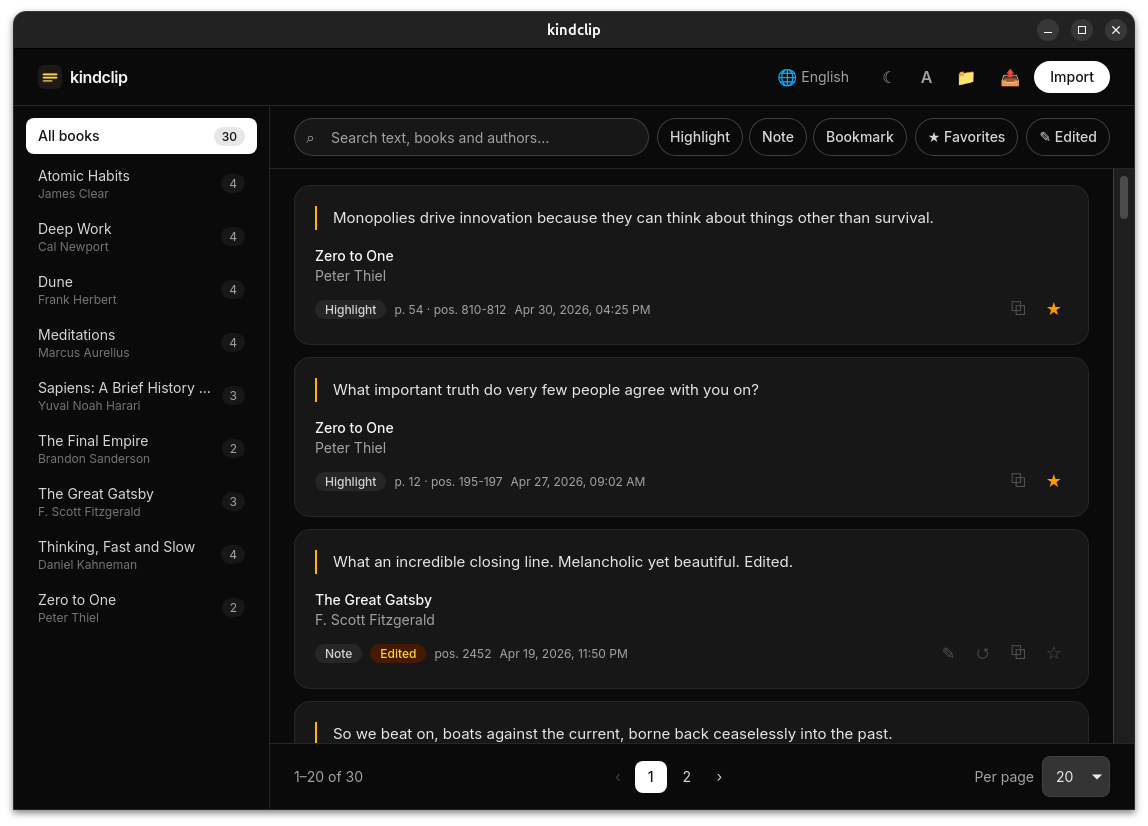
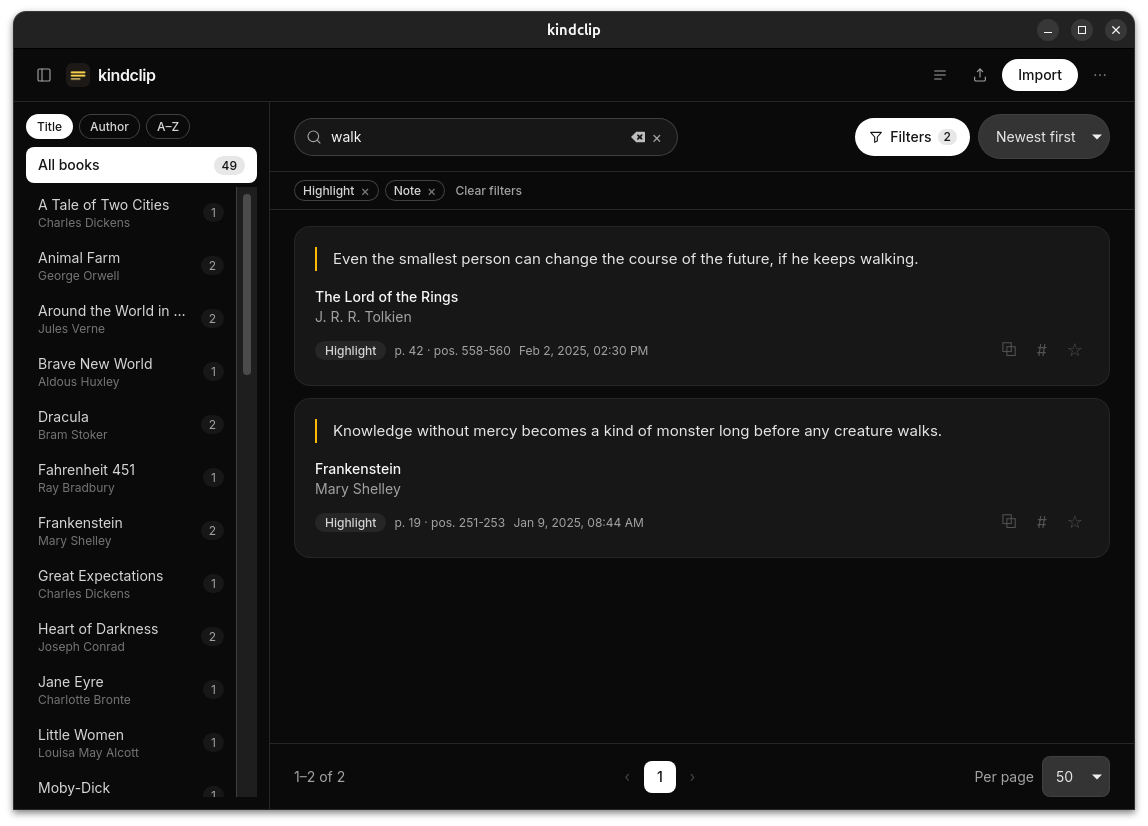
docs: refresh the screenshot and document the new app chrome

diff --git a/README.md b/README.md
@@ -16,7 +16,8 @@ on Windows, Linux and macOS.
 <p>
   <img src="docs/screenshot.png" width="80%" alt="kindclip — dark theme">
 </p>
-*Library view: book sidebar, live search, cards and pagination — in dark theme.*
+*Library view: collapsible book sidebar, collapsible search, one Filters menu
+with its active chips, and the ⋯ preferences menu — in dark theme.*
 
 ## Usage
 
@@ -27,13 +28,13 @@ on Windows, Linux and macOS.
 2. Plug in your Kindle over USB and grab `documents/My Clippings.txt`.
 3. Hit **Import**, pick the file, browse. Re-import any time: duplicates are
    detected by hash, and files that previously failed to parse get healed.
-   The 📁 button next to **Import** reveals the database file in your file
-   manager.
-4. Hit **Export** (📤) next to **Import** to save everything matching the
+   The **⋯** menu has **Open database location** to reveal the database file
+   in your file manager.
+4. Hit the **Export** icon in the header to save everything matching the
    current filters to **Markdown, JSON or CSV** — one file grouped by book.
-5. Hit **Manage library** (🗂) to rename or merge books, delete a book, or
-   remove an imported file — a bad import can be undone without wiping the
-   whole database.
+5. Hit the **Manage library** icon in the header to rename or merge books,
+   delete a book, or remove an imported file — a bad import can be undone
+   without wiping the whole database.
 
 ## Features
 
@@ -42,10 +43,18 @@ on Windows, Linux and macOS.
   kinds — including modern Spanish firmware wording («Tu resaltado»).
 - **Multi-file library** with content-hash dedupe across imports.
 - **Filters**: full-text search over content, title and author, plus book,
-  multi-select kind chips, favorites-only, edited-notes-only and multi-tag
-  filters. Tags combine with **AND** (a clipping must carry every selected
-  tag), and every filter can be mixed. Configurable **pagination**
-  (20/50/100) and a **font-size control** (S/M/L) for accessibility.
+  multi-select type, status and tag filters. Everything but the book lives in
+  a single **Filters** menu that badges the active count and shows a removable
+  chip per active filter; **Clear filters** resets them all. Tags combine with
+  **AND** (a clipping must carry every selected tag), and every filter can be
+  mixed. Configurable **pagination** (20/50/100).
+- **Grouped app chrome**: one header holds the sidebar toggle, the library and
+  export actions, **Import** and a **⋯** menu for **Preferences** — language,
+  system/light/dark theme, text size (S/M/L) for accessibility, and the
+  database location. All of it persists.
+- **Collapsible shell**: hide the book sidebar with the header toggle (the
+  choice is remembered), and the search field stays collapsed to an icon until
+  you click it or there is text in it.
 - **Book sorting**: sort the book sidebar by title or author, ascending or
   descending, with the choice persisted.
 - **Clipping order**: sort the list by newest/oldest, book title (A–Z/Z–A) or
@@ -70,10 +79,10 @@ on Windows, Linux and macOS.
   clippings, and list the imported files to undo a single import without
   wiping `kindclip.db`. Every destructive action asks for confirmation, and
   removed clippings come back if you re-import the file.
-- **UI in 5 languages** (es, en, fr, de, it — Spanish by default),
-  a **system/light/dark theme** and the font size above, all persisted.
-- A header button reveals **`kindclip.db` in the file manager**, and long
-  book titles in the sidebar show the full title on hover.
+- **UI in 5 languages** (es, en, fr, de, it — Spanish by default), with the
+  language switch in the **⋯** menu next to the theme and text size.
+- **⋯ → Open database location** reveals `kindclip.db` in the file manager, and
+  long book titles in the sidebar show the full title on hover.
 - Bundled **Inter** typeface, custom icons and a minimal macOS-style UI over
   the native window frame.
 
@@ -129,10 +138,12 @@ src/                        # Svelte 5 + Tailwind v4 frontend
     font.ts                 # S/M/L font-size scale with persistence (tested)
     importer.ts             # Import flow: pick → parse → persist
     library.ts              # Pagination, debounce, formatting (tested)
+    sidebar.ts              # Remembered sidebar open/closed state (tested)
     i18n.ts                 # es/en/fr/de/it dictionaries (parity tested)
     theme.ts                # system/light/dark theme
     types.ts                # Shared frontend/backend contracts
-  components/               # BookSidebar, ClippingCard, Pagination, FontScaleToggle, ...
+  components/               # BookSidebar, ClippingCard, Pagination, FilterMenu, ...
+                            # PreferencesMenu, ExportDialog, LibraryDialog, Icon
   assets/icon.png           # App icon, also shown in the header
 src-tauri/
   src/
@@ -157,8 +168,8 @@ The SQL plugin resolves `sqlite:kindclip.db` to the standard per-OS config dir
 To wipe the library and re-import from scratch, just delete that file.
 This also wipes your note edits, which live in the same database.
 To remove a single book or undo one import instead, use **Manage library**
-(🗂) — no need to delete the file.
-You can also open it straight from the app: the 📁 button next to **Import**
+in the header — no need to delete the file.
+You can also open it straight from the app: **⋯ → Open database location**
 reveals it in your file manager.
 Quick inspection:
 
